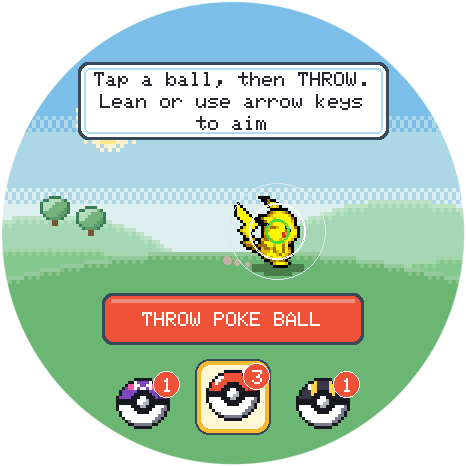
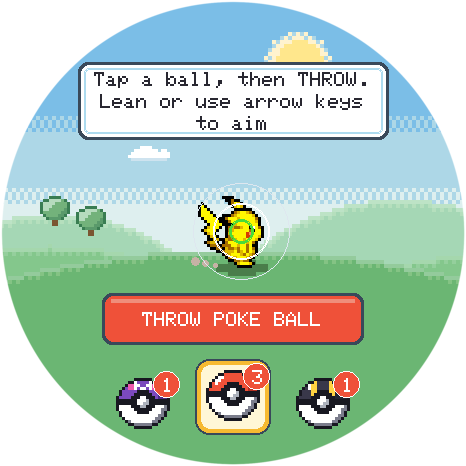
V2: battles: the moon and sun up out of the wild Pokémon's way; the pads float on earth
In a battle the sun and moon that sit by the name at home go to (300, 66), over
the wild one's head and a little left (they were behind it: the Beach's moon at
night, the Beach's and the Forest's sun by day, the Mansion's moon); Wild
Encounter's sun, under the wild one's name, goes there too, its cloud to the left.
Each base has a chunk of earth under it (scEarthChunk): dirt, sand on the Beach,
rock in the Cave and the Mansion. The README's battle and catch pictures retaken.

diff --git a/scene_v2.h b/scene_v2.h
@@ -791,6 +791,16 @@ static void scDisc(int x, int y, int r, Rgb col, int ox, int oy) {
 }
 static const int16_t SC_STARS[10][2] = { {70, 130}, {118, 96}, {160, 158}, {342, 74}, {334, 196},
                                          {404, 120}, {96, 200}, {268, 152}, {392, 176}, {196, 140} };  // clear of the name
+// In a battle the sun and the moon that sit on the right at home, by the name, go up over the wild Pokemon's head
+// and a little left of it: at home's place they were behind it (Fedor: "When battling at the beach at night, the moon
+// is behind the pokemon you are battling. Often making the sprite look like it has an issue. Lets move the moon
+// upward, higher into the sky and slightly left"); the day's sun on the Beach and in the Forest, the Mansion's moon,
+// and a wild battle's sun and moon (scMeadowBattle), too
+#define V2_BTL_SUN_X 300
+#define V2_BTL_SUN_Y 66
+static bool scBattleSky = false;  // painting a battle's backdrop (scBattle)
+static int scSunX(int home) { return scBattleSky ? V2_BTL_SUN_X : home; }
+static int scSunY(int home) { return scBattleSky ? V2_BTL_SUN_Y : home; }
 // the sun in its halo, fading out in a checker; at night a crescent moon and square stars
 static void scSun(const ScPal &p, bool night, int x, int y) {
   Rgb mid = scMix(p.top, p.bot, .5);
@@ -1117,7 +1127,7 @@ static void scGraveyard(int dx, int dy) {
 static void scMansionZone() {
   const ScPal p = scMansionPal();
   scSky(p.top, p.bot);
-  scSun(p, true, 372, 128);
+  scSun(p, true, scSunX(372), scSunY(128));
   scCloud(p, 60, 150, 3);
   scStdHills(p, 1, true);
   scMansionFar(p);
@@ -1147,17 +1157,17 @@ static void scPaint(uint8_t zone, uint8_t tod) {
       scCloud(p, 260, 110, 4);
       scCloud(p, 330, 182, 3);
     } else if (zone == Z_FOREST) {
-      scSun(p, false, 352, 128);
+      scSun(p, false, scSunX(352), scSunY(128));
       scCloud(p, 118, 104, 4);
     } else {
-      scSun(p, false, 352, 128);
+      scSun(p, false, scSunX(352), scSunY(128));
       scCloud(p, 116, 104, 4);
       scCloud(p, 292, 184, 4);
     }
   } else {  // the dusk or night sky, the same over every zone
     const ScPal &s = tod == 2 ? SC_NIGHT : SC_DUSK_SKY;
     scSky(s.top, s.bot);
-    scSun(s, tod == 2, 352, 128);
+    scSun(s, tod == 2, scSunX(352), scSunY(128));
     scCloud(s, 116, 104, 4);
     scCloud(s, 292, 184, 4);
   }
@@ -1498,8 +1508,8 @@ static void scMeadowBattle(uint8_t tod) {
   const ScPal &p = SC_DAY;
   const ScPal &s = tod == 2 ? SC_NIGHT : tod == 1 ? SC_DUSK_SKY : SC_DAY;
   scSky(s.top, s.bot);
-  scSun(s, tod == 2, 110, 120);
-  scCloud(s, 300, 90, 3);
+  scSun(s, tod == 2, V2_BTL_SUN_X, V2_BTL_SUN_Y);  // up where the zones' battles have it (it was under the wild one's
+  scCloud(s, 128, 146, 3);                       // name, at 110, 120; Fedor: "Move the sun up as well"), the cloud left
   scGradeTod = tod;
   static const ScEll nearB[1] = { { -400, 250, 866, 1100 } };  // the near hill comes up higher than at home
   ScLayer L[3] = { { p.far, SC_FAR, 2 }, { p.mid, SC_MID, 2 }, { p.near, nearB, 1 } };
@@ -1508,6 +1518,34 @@ static void scMeadowBattle(uint8_t tod) {
   for (auto &t : trees) scRole(SPR_V2_TREE, 10, t[0], t[1], 3, p, p.mid);
   scHills(L, 3, p.lit, 2);
   scGradeTod = 0;
+}
+// The earth a base stands on (Fedor: "For all the floating pads that the pokemon are on, can we add a chunk of earth
+// under it. Would be nice to add a bit more "weight" to it"): a rocky lump hanging under the pad, from just under its
+// top down to a blunt point depth px lower, on the 4 px grid. Lit from the upper left as the scene is: its left edge
+// light, its right edge and bottom dark, a darker stratum now and then and a few pebbles, in the zone's earth (brown
+// dirt under grass, packed sand on the Beach, rock in the Cave and the Mansion)
+static void scEarthChunk(int8_t zone, int cx, int y0, int hw, int depth) {
+  Rgb mid = 0x8A5A36, lit = 0xA8744A, dark = 0x5E3A24, deep = 0x3F2618, stone = 0xB8A890;  // dirt
+  if (zone == Z_BEACH) mid = 0xC8A46A, lit = 0xDCBC84, dark = 0xA07A48, deep = 0x7A5A34, stone = 0xF2E6C8;
+  else if (zone == Z_CAVE) mid = 0x5A5568, lit = 0x726C82, dark = 0x3E3A4A, deep = 0x2A2734, stone = 0x8C86A0;
+  else if (zone == Z_MANSION) mid = 0x3A3048, lit = 0x4E4262, dark = 0x262034, deep = 0x181424, stone = 0x6A5E80;
+  int top = y0 / 4 * 4, rows = depth / 4;
+  for (int i = 0; i <= rows; i++) {
+    float t = i / (float)rows;
+    int w = (int)(hw * 0.8f * powf(1 - t, 1.15f)) + 6;
+    int jl = ((i * 5 + cx / 4) % 3 - 1) * 4, jr = ((i * 7 + cx / 4) % 3 - 1) * 4;  // a rocky edge, the same each time
+    int x0 = (cx - w + jl) / 4 * 4, x1 = (cx + w + jr) / 4 * 4, y = top + i * 4;
+    bool stratum = i % 4 == 2;
+    for (int x = x0; x <= x1; x += 4) {
+      Rgb c = t > 0.55f ? scMix(mid, dark, (t - 0.55f) * 1.6f) : mid;
+      if (stratum) c = scMix(c, dark, .45);
+      if (x <= x0 + 4) c = lit;                  // the light from the upper left
+      if (x >= x1 - 4) c = dark;                 // its shaded side
+      if (x == x1 || i == rows) c = deep;        // and its outline, right and below
+      else if (x > x0 + 4 && x < x1 - 8 && ((x / 4) * 13 + (y / 4) * 7) % 29 == 0) c = stone;  // a pebble
+      scCell(x, y, c);
+    }
+  }
 }
 // a base under feet at (x, y): hw either side, up above them and down below (as battle_hud has them), in the
 // zone's colours (the Forest's and the meadow's are the mockups'; the others have their ground's colour, lit
@@ -1523,6 +1561,7 @@ static void scBase(int8_t zone, uint8_t tod, int x, int y, int hw, int up, int d
   }
   scGradeTod = zone == Z_CAVE || zone == Z_MANSION ? 0 : tod;
   ScEll e = scE(x - hw, y - up, x + hw, y + down);
+  scEarthChunk(zone, x, y + down - 4, hw, mine ? 48 : 40);  // the earth under it, the pad on top
   scOval(scE(e.x0, e.y0 + 8, e.x1, e.y1 + 8), under);
   scOval(e, fill, lit);
   if (zone < 0) {  // the meadow's: a lighter middle and grass at its foot (where g_battle has them)
@@ -1535,8 +1574,10 @@ static void scBase(int8_t zone, uint8_t tod, int x, int y, int hw, int up, int d
 static void scBattle(int key) {  // key: (zone + 1) * 8 + tod * 2 + bases
   int8_t zone = key / 8 - 1;
   uint8_t tod = key / 2 % 4;
+  scBattleSky = true;  // the sun or the moon up out of the wild Pokemon's way
   if (zone < 0) scMeadowBattle(tod);
   else scPaint(zone, zone == Z_CAVE || zone == Z_MANSION ? 0 : tod);
+  scBattleSky = false;
   if (!(key & 1)) return;
   scBase(zone, tod, v2BtlFoe[0], v2BtlFoe[1], 80, 24, 16, false);
   scBase(zone, tod, v2BtlMe[0], v2BtlMe[1], 100, 28, 22, true);

diff --git a/CHANGELOG.md b/CHANGELOG.md
@@ -6,6 +6,11 @@ All notable changes to the firmware. Versions match the number shown at the
 Updating from the [web installer](https://fedorsosnin.github.io/PokeKnomiGochi/)
 **without** ticking "Erase device" keeps your Pokémon.
 
+## [Unreleased]
+
+- **The moon and the sun out of the way:** in a battle the moon (and the sun by day) sits higher and a little left, over the wild Pokémon instead of behind it, where it looked like part of the sprite. Wild Encounter's sun, which hid under the wild Pokémon's name, moved up there too.
+- **The battle pads float on earth:** each pad your Pokémon and the wild one stand on now has a chunk of earth under it, a floating island: dirt under the grass, packed sand on the Beach, rock in the Cave and at the Mansion.
+
 ## [2.0.6] - 2026-11-11
 
 - **Your Pokémon faces its foe:** in a battle your Pokémon is seen from behind, facing the wild one up to its right, as in the Game Boy games: standing, attacking and taking a hit. Every Pokémon's sprites now have these back views (a few without them still face you).
